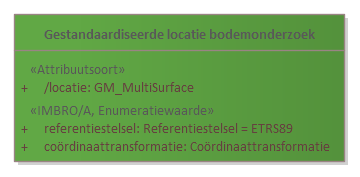
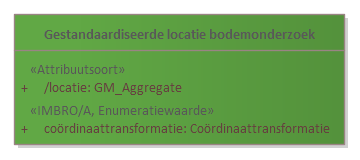
Conceptualmodel-MilieuhygienischbodemonderzoekSAD-0.2-1-20230126-20230622-132729

diff --git a/data/SAD-cat.msword.html b/data/SAD-cat.msword.html
@@ -15,7 +15,7 @@
    <body>
       <p>Conceptual model/Milieuhygienisch bodemonderzoek SAD/20230126</p>
       <p>Imvertor: 2.0.0</p>
-      <p>Model release: Conceptualmodel-MilieuhygienischbodemonderzoekSAD-0.2-1-20230126-20230622-112002</p>
+      <p>Model release: Conceptualmodel-MilieuhygienischbodemonderzoekSAD-0.2-1-20230126-20230622-132729</p>
       <hr>
       <section>
          <h1>Artikel 1 Definitie van registratieobject, entiteiten en attributen</h1>
@@ -885,7 +885,7 @@
                            </tr>
                         </tbody>
                      </table>
-                     </section><a class="anchor" id="detail_d99234e4475"></a><section id="detail_d99234e4475">
+                     </section><a class="anchor" id="detail_d99388e4475"></a><section id="detail_d99388e4475">
                      <h4>  registratiegeschiedenis</h4>
                      <table style="width: 100%;">
                         <colgroup style="width: 30%;"></colgroup>
@@ -918,7 +918,7 @@
                            </tr>
                         </tbody>
                      </table>
-                  </section><a class="anchor" id="detail_d99234e4660"></a><section id="detail_d99234e4660">
+                  </section><a class="anchor" id="detail_d99388e4660"></a><section id="detail_d99388e4660">
                      <h4>  gestandaardiseerde locatie bodemonderzoek</h4>
                      <table style="width: 100%;">
                         <colgroup style="width: 30%;"></colgroup>
@@ -961,7 +961,7 @@
                            </tr>
                         </tbody>
                      </table>
-                  </section><a class="anchor" id="detail_d99234e4894"></a><section id="detail_d99234e4894">
+                  </section><a class="anchor" id="detail_d99388e4894"></a><section id="detail_d99388e4894">
                      <h4>  rapport</h4>
                      <table style="width: 100%;">
                         <colgroup style="width: 30%;"></colgroup>
@@ -1688,7 +1688,7 @@
                      </section>
                </section><a class="anchor" id="graph_EAID_69CFF81C_3747_43f5_8293_34D1745DEB53"></a><a class="anchor" id="global_class_Model_Gestandaardiseerdelocatiebodemonderzoek"></a><section id="global_class_Model_Gestandaardiseerdelocatiebodemonderzoek">
                   <h3>   Gestandaardiseerde locatie bodemonderzoek</h3>
-                  <div class="imageinfo "><img src="Images/EAID_CE43C9A2_850F_4ec1_9646_43C5D2D74E3F.png" usemap="#imagemap-EAID_CE43C9A2_850F_4ec1_9646_43C5D2D74E3F" alt="Diagram "><map name="imagemap-EAID_CE43C9A2_850F_4ec1_9646_43C5D2D74E3F"><area shape="rect" alt="Gestandaardiseerde locatie bodemonderzoek" coords="14,14,345,162" href="#graph_EAID_69CFF81C_3747_43f5_8293_34D1745DEB53"></map><p><b></b></p>
+                  <div class="imageinfo "><img src="Images/EAID_CE43C9A2_850F_4ec1_9646_43C5D2D74E3F.png" usemap="#imagemap-EAID_CE43C9A2_850F_4ec1_9646_43C5D2D74E3F" alt="Diagram "><map name="imagemap-EAID_CE43C9A2_850F_4ec1_9646_43C5D2D74E3F"><area shape="rect" alt="Gestandaardiseerde locatie bodemonderzoek" coords="14,14,345,145" href="#graph_EAID_69CFF81C_3747_43f5_8293_34D1745DEB53"></map><p><b></b></p>
                   </div>
                   <table style="width: 100%;">
                      <colgroup style="width: 30%;"></colgroup>
@@ -1750,53 +1750,8 @@
                            <tr>
                               <th>&nbsp;&nbsp;Naam</th>
                               <td>
-                                 GM_MultiSurface
+                                 GM_Aggregate
                                  </td>
-                           </tr>
-                           <tr>
-                              <th>Toelichting</th>
-                              <td>
-                                 
-                                 <p>Het standaard referentiestelsel is ETRS89 (European Terrestrial Reference System 1989).</p>
-                                 </td>
-                           </tr>
-                        </tbody>
-                     </table>
-                     </section><a class="anchor" id="detail_attribute_Model_Gestandaardiseerdelocatiebodemonderzoek_referentiestelsel"></a><section id="detail_attribute_Model_Gestandaardiseerdelocatiebodemonderzoek_referentiestelsel">
-                     <h4>  referentiestelsel</h4>
-                     
-                     <table style="width: 100%;">
-                        <colgroup style="width: 30%;"></colgroup>
-                        <colgroup style="width: 70%;"></colgroup>
-                        <tbody>
-                           <tr>
-                              <th>Type gegeven</th>
-                              <td>Attribuut van Gestandaardiseerde locatie bodemonderzoek</td>
-                           </tr>
-                           <tr>
-                              <th>Definitie</th>
-                              <td>
-                                 
-                                 <p>Het referentiestelsel van de gestandaardiseerde coördinaten.</p>
-                                 </td>
-                           </tr>
-                           <tr>
-                              <th>Kardinaliteit</th>
-                              <td>1</td>
-                           </tr>
-                           <tr>
-                              <th>Domein</th>
-                              <td></td>
-                           </tr>
-                           <tr>
-                              <th>&nbsp;&nbsp;Naam</th>
-                              <td><a class="link" href="#detail_class_Model_Referentiestelsel">
-                                    Referentiestelsel
-                                    </a></td>
-                           </tr>
-                           <tr>
-                              <th>&nbsp;&nbsp;Type</th>
-                              <td>Waardelijst uitbreidbaar</td>
                            </tr>
                            <tr>
                               <th>Toelichting</th>
@@ -2283,7 +2238,7 @@
                            </tr>
                         </tbody>
                      </table>
-                     </section><a class="anchor" id="detail_d99234e9953"></a><section id="detail_d99234e9953">
+                     </section><a class="anchor" id="detail_d99388e9818"></a><section id="detail_d99388e9818">
                      <h4>  aangeleverde verticale positie</h4>
                      <table style="width: 100%;">
                         <colgroup style="width: 30%;"></colgroup>
@@ -3173,7 +3128,7 @@
                            </tr>
                         </tbody>
                      </table>
-                     </section><a class="anchor" id="detail_d99234e12796"></a><section id="detail_d99234e12796">
+                     </section><a class="anchor" id="detail_d99388e12661"></a><section id="detail_d99388e12661">
                      <h4>  grond</h4>
                      <table style="width: 100%;">
                         <colgroup style="width: 30%;"></colgroup>
@@ -3206,7 +3161,7 @@
                            </tr>
                         </tbody>
                      </table>
-                  </section><a class="anchor" id="detail_d99234e12981"></a><section id="detail_d99234e12981">
+                  </section><a class="anchor" id="detail_d99388e12846"></a><section id="detail_d99388e12846">
                      <h4>  kleur</h4>
                      <table style="width: 100%;">
                         <colgroup style="width: 30%;"></colgroup>
@@ -3239,7 +3194,7 @@
                            </tr>
                         </tbody>
                      </table>
-                  </section><a class="anchor" id="detail_d99234e13166"></a><section id="detail_d99234e13166">
+                  </section><a class="anchor" id="detail_d99388e13031"></a><section id="detail_d99388e13031">
                      <h4>  bijzonderheid</h4>
                      <table style="width: 100%;">
                         <colgroup style="width: 30%;"></colgroup>
@@ -4614,7 +4569,7 @@
                            </tr>
                         </tbody>
                      </table>
-                     </section><a class="anchor" id="detail_d99234e18468"></a><section id="detail_d99234e18468">
+                     </section><a class="anchor" id="detail_d99388e18333"></a><section id="detail_d99388e18333">
                      <h4>  aangeleverde verticale positie</h4>
                      <table style="width: 100%;">
                         <colgroup style="width: 30%;"></colgroup>
@@ -5024,7 +4979,7 @@
                            </tr>
                         </tbody>
                      </table>
-                     </section><a class="anchor" id="detail_d99234e19932"></a><section id="detail_d99234e19932">
+                     </section><a class="anchor" id="detail_d99388e19797"></a><section id="detail_d99388e19797">
                      <h4>  kleur</h4>
                      <table style="width: 100%;">
                         <colgroup style="width: 30%;"></colgroup>

diff --git a/data/SAD-cat.respec.html b/data/SAD-cat.respec.html
@@ -861,7 +861,7 @@
                   </tr>
                </tbody>
             </table>
-            </section><a class="anchor" id="detail_d99234e4475"></a><section id="detail_d99234e4475">
+            </section><a class="anchor" id="detail_d99388e4475"></a><section id="detail_d99388e4475">
             <h4>  registratiegeschiedenis</h4>
             <table style="width: 100%;">
                <colgroup style="width: 30%;"></colgroup>
@@ -894,7 +894,7 @@
                   </tr>
                </tbody>
             </table>
-         </section><a class="anchor" id="detail_d99234e4660"></a><section id="detail_d99234e4660">
+         </section><a class="anchor" id="detail_d99388e4660"></a><section id="detail_d99388e4660">
             <h4>  gestandaardiseerde locatie bodemonderzoek</h4>
             <table style="width: 100%;">
                <colgroup style="width: 30%;"></colgroup>
@@ -937,7 +937,7 @@
                   </tr>
                </tbody>
             </table>
-         </section><a class="anchor" id="detail_d99234e4894"></a><section id="detail_d99234e4894">
+         </section><a class="anchor" id="detail_d99388e4894"></a><section id="detail_d99388e4894">
             <h4>  rapport</h4>
             <table style="width: 100%;">
                <colgroup style="width: 30%;"></colgroup>
@@ -1664,7 +1664,7 @@
             </section>
       </section><a class="anchor" id="graph_EAID_69CFF81C_3747_43f5_8293_34D1745DEB53"></a><a class="anchor" id="global_class_Model_Gestandaardiseerdelocatiebodemonderzoek"></a><section id="global_class_Model_Gestandaardiseerdelocatiebodemonderzoek">
          <h3>   Gestandaardiseerde locatie bodemonderzoek</h3>
-         <div class="imageinfo "><img src="data/Images/EAID_CE43C9A2_850F_4ec1_9646_43C5D2D74E3F.png" usemap="#imagemap-EAID_CE43C9A2_850F_4ec1_9646_43C5D2D74E3F" alt="Diagram "><map name="imagemap-EAID_CE43C9A2_850F_4ec1_9646_43C5D2D74E3F"><area shape="rect" alt="Gestandaardiseerde locatie bodemonderzoek" coords="14,14,345,162" href="#graph_EAID_69CFF81C_3747_43f5_8293_34D1745DEB53"></map><p><b></b></p>
+         <div class="imageinfo "><img src="data/Images/EAID_CE43C9A2_850F_4ec1_9646_43C5D2D74E3F.png" usemap="#imagemap-EAID_CE43C9A2_850F_4ec1_9646_43C5D2D74E3F" alt="Diagram "><map name="imagemap-EAID_CE43C9A2_850F_4ec1_9646_43C5D2D74E3F"><area shape="rect" alt="Gestandaardiseerde locatie bodemonderzoek" coords="14,14,345,145" href="#graph_EAID_69CFF81C_3747_43f5_8293_34D1745DEB53"></map><p><b></b></p>
          </div>
          <table style="width: 100%;">
             <colgroup style="width: 30%;"></colgroup>
@@ -1726,53 +1726,8 @@
                   <tr>
                      <th>&nbsp;&nbsp;Naam</th>
                      <td>
-                        GM_MultiSurface
+                        GM_Aggregate
                         </td>
-                  </tr>
-                  <tr>
-                     <th>Toelichting</th>
-                     <td>
-                        
-                        <p>Het standaard referentiestelsel is ETRS89 (European Terrestrial Reference System 1989).</p>
-                        </td>
-                  </tr>
-               </tbody>
-            </table>
-            </section><a class="anchor" id="detail_attribute_Model_Gestandaardiseerdelocatiebodemonderzoek_referentiestelsel"></a><section id="detail_attribute_Model_Gestandaardiseerdelocatiebodemonderzoek_referentiestelsel">
-            <h4>  referentiestelsel</h4>
-            
-            <table style="width: 100%;">
-               <colgroup style="width: 30%;"></colgroup>
-               <colgroup style="width: 70%;"></colgroup>
-               <tbody>
-                  <tr>
-                     <th>Type gegeven</th>
-                     <td>Attribuut van Gestandaardiseerde locatie bodemonderzoek</td>
-                  </tr>
-                  <tr>
-                     <th>Definitie</th>
-                     <td>
-                        
-                        <p>Het referentiestelsel van de gestandaardiseerde coördinaten.</p>
-                        </td>
-                  </tr>
-                  <tr>
-                     <th>Kardinaliteit</th>
-                     <td>1</td>
-                  </tr>
-                  <tr>
-                     <th>Domein</th>
-                     <td></td>
-                  </tr>
-                  <tr>
-                     <th>&nbsp;&nbsp;Naam</th>
-                     <td><a class="link" href="#detail_class_Model_Referentiestelsel">
-                           Referentiestelsel
-                           </a></td>
-                  </tr>
-                  <tr>
-                     <th>&nbsp;&nbsp;Type</th>
-                     <td>Waardelijst uitbreidbaar</td>
                   </tr>
                   <tr>
                      <th>Toelichting</th>
@@ -2259,7 +2214,7 @@
                   </tr>
                </tbody>
             </table>
-            </section><a class="anchor" id="detail_d99234e9953"></a><section id="detail_d99234e9953">
+            </section><a class="anchor" id="detail_d99388e9818"></a><section id="detail_d99388e9818">
             <h4>  aangeleverde verticale positie</h4>
             <table style="width: 100%;">
                <colgroup style="width: 30%;"></colgroup>
@@ -3149,7 +3104,7 @@
                   </tr>
                </tbody>
             </table>
-            </section><a class="anchor" id="detail_d99234e12796"></a><section id="detail_d99234e12796">
+            </section><a class="anchor" id="detail_d99388e12661"></a><section id="detail_d99388e12661">
             <h4>  grond</h4>
             <table style="width: 100%;">
                <colgroup style="width: 30%;"></colgroup>
@@ -3182,7 +3137,7 @@
                   </tr>
                </tbody>
             </table>
-         </section><a class="anchor" id="detail_d99234e12981"></a><section id="detail_d99234e12981">
+         </section><a class="anchor" id="detail_d99388e12846"></a><section id="detail_d99388e12846">
             <h4>  kleur</h4>
             <table style="width: 100%;">
                <colgroup style="width: 30%;"></colgroup>
@@ -3215,7 +3170,7 @@
                   </tr>
                </tbody>
             </table>
-         </section><a class="anchor" id="detail_d99234e13166"></a><section id="detail_d99234e13166">
+         </section><a class="anchor" id="detail_d99388e13031"></a><section id="detail_d99388e13031">
             <h4>  bijzonderheid</h4>
             <table style="width: 100%;">
                <colgroup style="width: 30%;"></colgroup>
@@ -4590,7 +4545,7 @@
                   </tr>
                </tbody>
             </table>
-            </section><a class="anchor" id="detail_d99234e18468"></a><section id="detail_d99234e18468">
+            </section><a class="anchor" id="detail_d99388e18333"></a><section id="detail_d99388e18333">
             <h4>  aangeleverde verticale positie</h4>
             <table style="width: 100%;">
                <colgroup style="width: 30%;"></colgroup>
@@ -5000,7 +4955,7 @@
                   </tr>
                </tbody>
             </table>
-            </section><a class="anchor" id="detail_d99234e19932"></a><section id="detail_d99234e19932">
+            </section><a class="anchor" id="detail_d99388e19797"></a><section id="detail_d99388e19797">
             <h4>  kleur</h4>
             <table style="width: 100%;">
                <colgroup style="width: 30%;"></colgroup>
